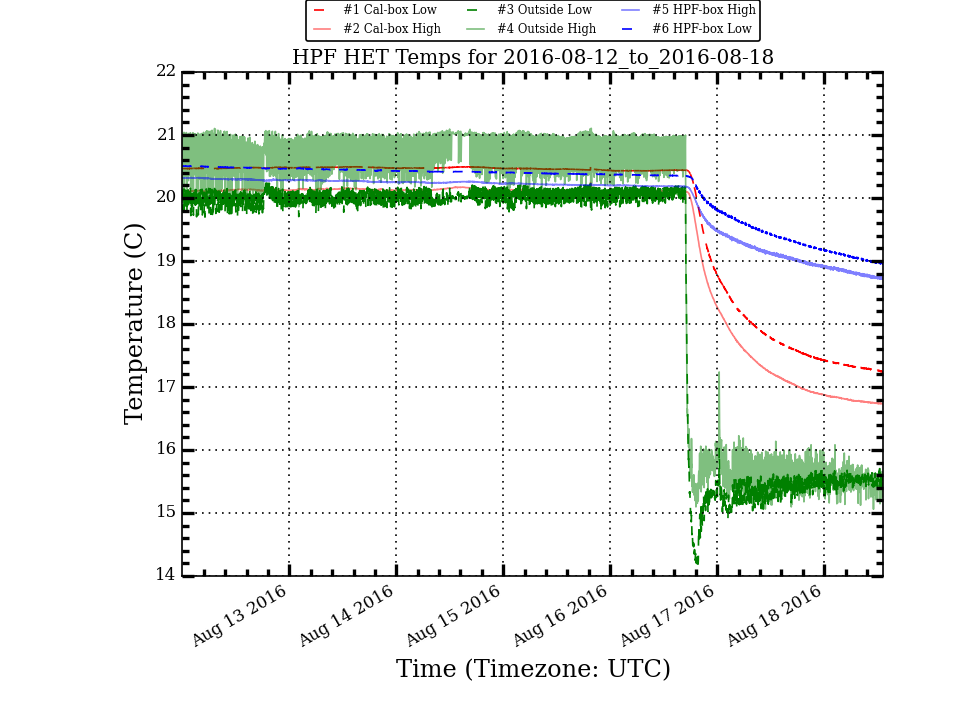
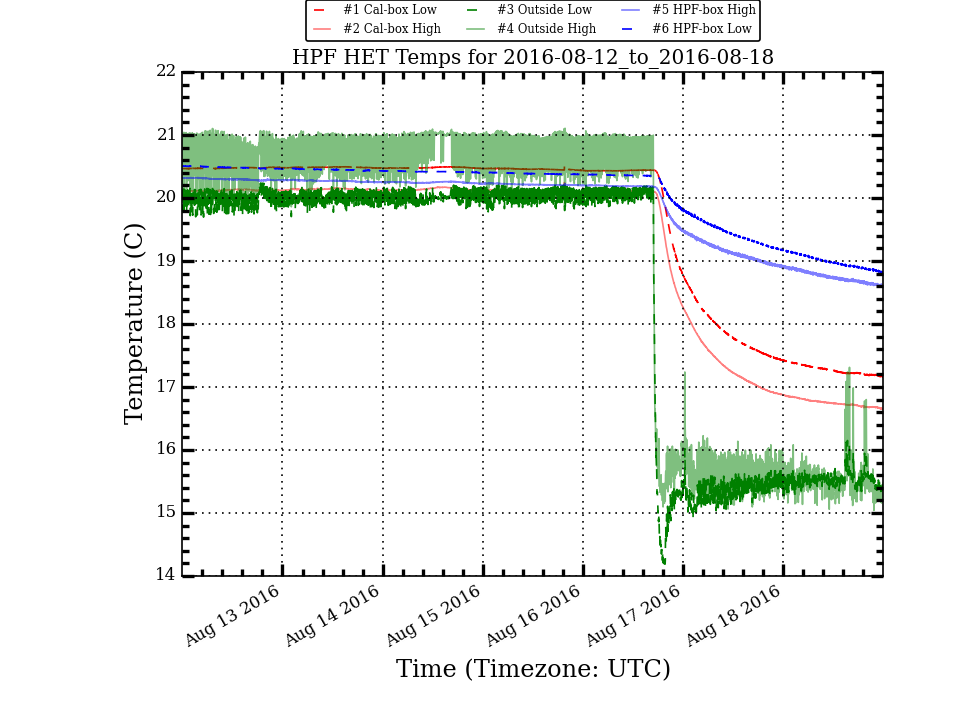
Update HPF Temp Plots

diff --git a/research/hpf_temps/plots/LakeShoreLogTotal_month_stats.html b/research/hpf_temps/plots/LakeShoreLogTotal_month_stats.html
@@ -10,56 +10,56 @@
  </TR>
  <TR>
   <TD>Cal_Low</TD>
-  <TD>22.226</TD>
-  <TD>2.312</TD>
-  <TD>20.811</TD>
+  <TD>22.153</TD>
+  <TD>2.373</TD>
+  <TD>20.753</TD>
   <TD>25.568</TD>
-  <TD>17.239</TD>
-  <TD>8.329</TD>
+  <TD>17.148</TD>
+  <TD>8.420</TD>
  </TR>
  <TR>
   <TD>Cal_High</TD>
-  <TD>22.033</TD>
-  <TD>2.558</TD>
-  <TD>20.382</TD>
+  <TD>21.953</TD>
+  <TD>2.621</TD>
+  <TD>20.320</TD>
   <TD>25.850</TD>
-  <TD>16.731</TD>
-  <TD>9.119</TD>
+  <TD>16.645</TD>
+  <TD>9.205</TD>
  </TR>
  <TR>
   <TD>Out_Low</TD>
-  <TD>21.715</TD>
-  <TD>3.070</TD>
-  <TD>20.079</TD>
+  <TD>21.623</TD>
+  <TD>3.137</TD>
+  <TD>20.072</TD>
   <TD>26.532</TD>
   <TD>14.189</TD>
   <TD>12.343</TD>
  </TR>
  <TR>
   <TD>Out_High</TD>
-  <TD>22.769</TD>
-  <TD>3.578</TD>
-  <TD>20.956</TD>
+  <TD>22.661</TD>
+  <TD>3.657</TD>
+  <TD>20.946</TD>
   <TD>30.744</TD>
-  <TD>15.057</TD>
-  <TD>15.687</TD>
+  <TD>15.041</TD>
+  <TD>15.703</TD>
  </TR>
  <TR>
   <TD>HPF_High</TD>
-  <TD>21.514</TD>
-  <TD>1.311</TD>
-  <TD>21.172</TD>
+  <TD>21.471</TD>
+  <TD>1.346</TD>
+  <TD>21.110</TD>
   <TD>23.295</TD>
-  <TD>18.710</TD>
-  <TD>4.585</TD>
+  <TD>18.587</TD>
+  <TD>4.708</TD>
  </TR>
  <TR>
   <TD>HPF_Low</TD>
-  <TD>21.582</TD>
-  <TD>1.161</TD>
-  <TD>21.406</TD>
+  <TD>21.541</TD>
+  <TD>1.198</TD>
+  <TD>21.340</TD>
   <TD>23.075</TD>
-  <TD>18.948</TD>
-  <TD>4.127</TD>
+  <TD>18.812</TD>
+  <TD>4.263</TD>
  </TR>
 </TABLE>

diff --git a/research/hpf_temps/plots/LakeShoreLogTotal_week_stats.html b/research/hpf_temps/plots/LakeShoreLogTotal_week_stats.html
@@ -10,56 +10,56 @@
  </TR>
  <TR>
   <TD>Cal_Low</TD>
-  <TD>19.762</TD>
-  <TD>1.206</TD>
-  <TD>20.467</TD>
+  <TD>19.599</TD>
+  <TD>1.324</TD>
+  <TD>20.457</TD>
   <TD>20.534</TD>
-  <TD>17.239</TD>
-  <TD>3.295</TD>
+  <TD>17.148</TD>
+  <TD>3.386</TD>
  </TR>
  <TR>
   <TD>Cal_High</TD>
-  <TD>19.368</TD>
-  <TD>1.285</TD>
-  <TD>20.113</TD>
+  <TD>19.195</TD>
+  <TD>1.406</TD>
+  <TD>20.110</TD>
   <TD>20.246</TD>
-  <TD>16.731</TD>
-  <TD>3.515</TD>
+  <TD>16.645</TD>
+  <TD>3.601</TD>
  </TR>
  <TR>
   <TD>Out_Low</TD>
-  <TD>18.718</TD>
-  <TD>2.103</TD>
-  <TD>19.988</TD>
+  <TD>18.513</TD>
+  <TD>2.178</TD>
+  <TD>19.973</TD>
   <TD>20.236</TD>
   <TD>14.189</TD>
   <TD>6.047</TD>
  </TR>
  <TR>
   <TD>Out_High</TD>
-  <TD>19.285</TD>
-  <TD>2.309</TD>
-  <TD>20.590</TD>
+  <TD>19.044</TD>
+  <TD>2.414</TD>
+  <TD>20.544</TD>
   <TD>21.106</TD>
-  <TD>15.057</TD>
-  <TD>6.049</TD>
+  <TD>15.041</TD>
+  <TD>6.065</TD>
  </TR>
  <TR>
   <TD>HPF_High</TD>
-  <TD>19.937</TD>
-  <TD>0.531</TD>
-  <TD>20.222</TD>
+  <TD>19.854</TD>
+  <TD>0.601</TD>
+  <TD>20.213</TD>
   <TD>20.324</TD>
-  <TD>18.710</TD>
-  <TD>1.614</TD>
+  <TD>18.587</TD>
+  <TD>1.737</TD>
  </TR>
  <TR>
   <TD>HPF_Low</TD>
-  <TD>20.142</TD>
-  <TD>0.490</TD>
-  <TD>20.395</TD>
+  <TD>20.061</TD>
+  <TD>0.565</TD>
+  <TD>20.387</TD>
   <TD>20.510</TD>
-  <TD>18.948</TD>
-  <TD>1.562</TD>
+  <TD>18.812</TD>
+  <TD>1.698</TD>
  </TR>
 </TABLE>
